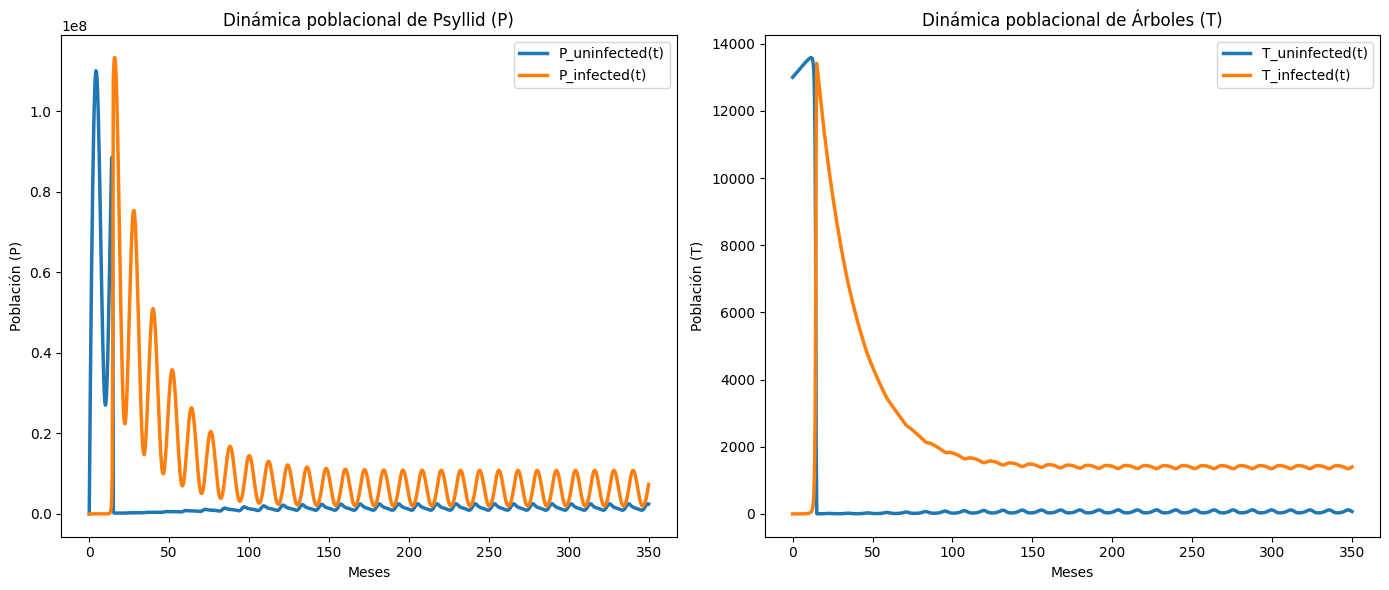
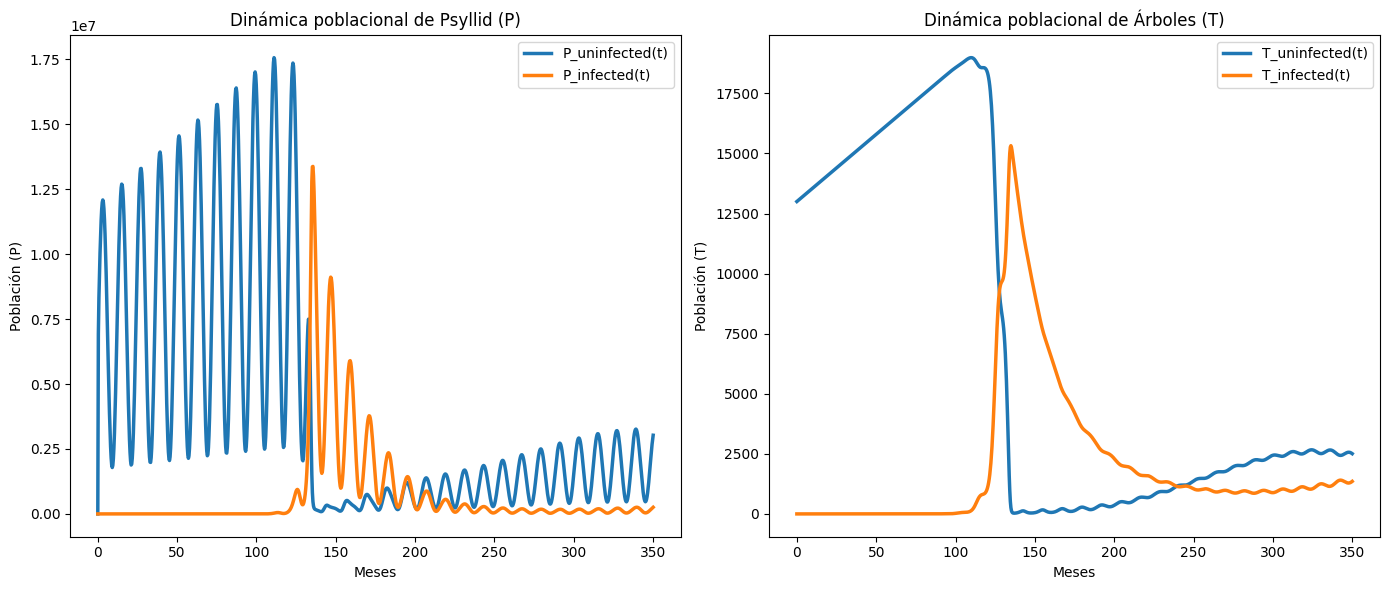
corrected readme

diff --git a/README.md b/README.md
@@ -4,7 +4,7 @@ Python implementation of the population dynamics proposed in the paper: ["Disrup
 
 ## Paper Error
 
-There is an error in the original paper in equation 2. The correct equation should be:
+I noticed there is an error in the original paper in equation 2. The correct equation should be:
 
 $$
 \frac{dP_i}{dt} = a I_i + c \lambda_u P_u T_i - (1 - c) p P_i T_u - \mu_a P_i
@@ -68,14 +68,14 @@ You can change the parameters to see how different conditions affect the populat
 
 ```python
 # Modify critical parameters
-model2 = PsyllidModel(c=0.75, lambdu=0.06, gamma=17e-8, g=56, beta=0.04, initial_conditions=[0, 1, 0, 0, 13000, 0])
+model = PsyllidModel(c=0.5, lambdu=0.06, gamma=17e-8, g=56, beta=0.04, initial_conditions=[0, 1, 0, 0, 13000, 0])
 
 # Solve and plot the modified model
-model2.solve()
-model2.plot()
+model.solve()
+model.plot()
 ```
 
-![plot1](plot1.png)
+![plot0](plot0.png)
 
 ### Example
 
@@ -85,7 +85,7 @@ Here is an example of how to create, solve, and plot the model:
 from model import PsyllidModel
 
 # Initialize the model with specific parameters
-model = PsyllidModel(lambdu=0.06, gamma=17e-8, g=56, beta=0.04, initial_conditions=[0, 1, 0, 0, 13000, 0])
+model = PsyllidModel(c=0.75,mua=7.6,lambdu=0.06, gamma=17e-8, g=56, beta=0.04, initial_conditions=[0, 1, 0, 0, 13000, 0])
 
 # Solve the model
 model.solve()
@@ -93,7 +93,7 @@ model.solve()
 # Plot the results
 model.plot()
 ```
-![plot0](plot0.png)
+![plot1](plot1.png)
 ### Environment Details
 
 The environment is defined in the `conda_environment.yml` file, which includes all necessary dependencies:
